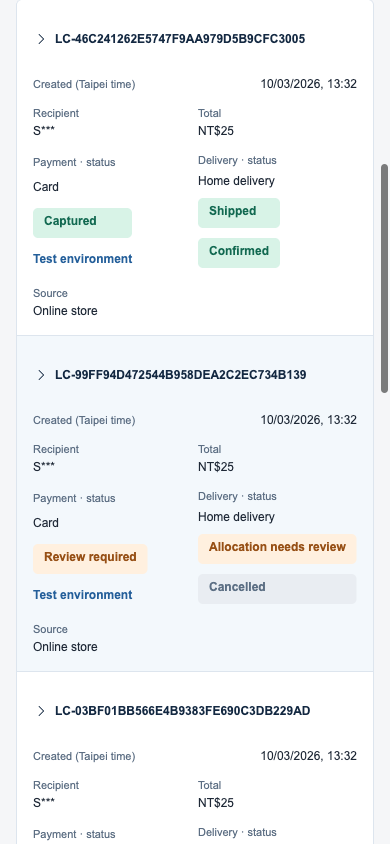
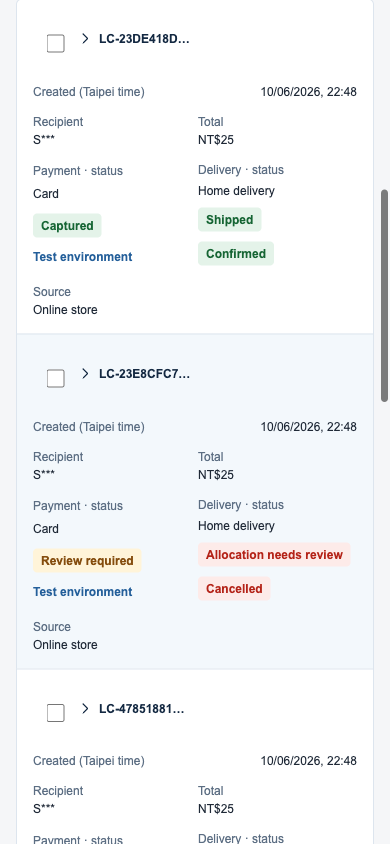
fix(orders): keep mobile rows visible and page selection clickable

diff --git a/apps/admin/components/MerchantOrders.tsx b/apps/admin/components/MerchantOrders.tsx
@@ -617,17 +617,17 @@ export function MerchantOrders({
                 {v2.tabs[bucket]} <span data-testid={`orders-count-${bucket}`}>{current.page!.counts[bucket]}</span>
               </button>)}
             </TabStrip>
-            <p className="orders-v2-total" data-testid="orders-total">{v2.total}: {current.page.total}</p>
+            <div className="orders-list-tools"><p className="orders-v2-total" data-testid="orders-total">{v2.total}: {current.page.total}</p><label className="pick-row-check orders-page-selection"><input type="checkbox" aria-label={pc.page}
+                      checked={current.page.items.length>0 && current.page.items.every(row=>Object.hasOwn(bulkRows,row.order_id))}
+                      ref={node=>{if(node)node.indeterminate=current.page!.items.some(row=>Object.hasOwn(bulkRows,row.order_id))&&!current.page!.items.every(row=>Object.hasOwn(bulkRows,row.order_id));}}
+                      disabled={!current.page.items.length || (new Set([...selectedIDs,...current.page.items.map(r=>r.order_id)]).size>500 && !current.page.items.every(row=>Object.hasOwn(bulkRows,row.order_id)))}
+                      onChange={e=>checkRows(current.page!.items,e.target.checked)}/><span>{pc.page}</span></label></div>
             {filters.bucket === "completed" && <p className="orders-v2-note">{v2.completedNote}</p>}
             <div className="orders-table-scroll">
               <table className="orders-table" data-testid="orders-table">
                 <thead>
                   <tr>
-                    <th><label className="pick-row-check"><input type="checkbox" aria-label={pc.page}
-                      checked={current.page.items.length>0 && current.page.items.every(row=>Object.hasOwn(bulkRows,row.order_id))}
-                      ref={node=>{if(node)node.indeterminate=current.page!.items.some(row=>Object.hasOwn(bulkRows,row.order_id))&&!current.page!.items.every(row=>Object.hasOwn(bulkRows,row.order_id));}}
-                      disabled={!current.page.items.length || (new Set([...selectedIDs,...current.page.items.map(r=>r.order_id)]).size>500 && !current.page.items.every(row=>Object.hasOwn(bulkRows,row.order_id)))}
-                      onChange={e=>checkRows(current.page!.items,e.target.checked)}/></label>{c.order}</th>
+                    <th>{c.order}</th>
                     <th>{c.created}</th>
                     <th>{v2.recipient}</th>
                     <th>{c.total}</th>

diff --git a/apps/admin/components/PickList.tsx b/apps/admin/components/PickList.tsx
@@ -8,6 +8,7 @@ import type { Locale } from "@live-commerce/i18n";
 import { readPickList, PickError } from "@/lib/picklist-client";
 import {
   pickUUID,
+  shouldOpenPickTools,
   type PickDocument,
   type PickLine,
   type PickSelection,
@@ -45,6 +46,9 @@ export function PickList({
 }) {
   const c = picklistCopy[locale];
   const scopeID = useId();
+  const [toolsOpen, setToolsOpen] = useState(() =>
+    shouldOpenPickTools(ids.length, sessionID),
+  );
   const [scope, setScope] = useState("chosen"),
     [busy, setBusy] = useState(false),
     [error, setError] = useState(""),
@@ -69,6 +73,9 @@ export function PickList({
   useEffect(() => {
     if (document) dialog.current?.showModal();
   }, [document]);
+  useEffect(() => {
+    setToolsOpen(shouldOpenPickTools(ids.length, sessionID));
+  }, [ids.length, sessionID]);
   async function preview() {
     if (!selection || flight.current) return;
     flight.current = true;
@@ -92,17 +99,19 @@ export function PickList({
     }
   }
   return (
-    <section
+    <details
       className="pick-toolbar"
       aria-label={c.pick}
       data-testid="pick-toolbar"
       hidden={disabled}
+      open={toolsOpen}
+      onToggle={(event) => setToolsOpen(event.currentTarget.open)}
     >
+      <summary className="pick-tools-summary">
+        {c.tools} · {c.selected}:{" "}
+        <strong data-testid="pick-count">{ids.length}</strong> / 500
+      </summary>
       <div className="pick-controls">
-        <p>
-          {c.selected}: <strong data-testid="pick-count">{ids.length}</strong> /
-          500
-        </p>
         <button type="button" disabled={!ids.length} onClick={onClear}>
           {c.clear}
         </button>
@@ -199,7 +208,7 @@ export function PickList({
           </div>,
           globalThis.document.body,
         )}
-    </section>
+    </details>
   );
 }
 function LineTable({ locale, rows }: { locale: Locale; rows: PickLine[] }) {

diff --git a/tests/admin/orders-ui.spec.ts b/tests/admin/orders-ui.spec.ts
@@ -6,6 +6,7 @@ import { mkdir, writeFile } from "node:fs/promises";
 import { resolve } from "node:path";
 import * as http from "node:http";
 import { nativePage } from "./fixtures/native-device";
+import {picklistCopy} from '../../apps/admin/lib/picklist-copy';
 
 const required = (name: string) => {
   const value = process.env[name];
@@ -864,6 +865,10 @@ test("MOU07 v2 private search, SQL queues, filters and three-language ledger", a
         const row = await page.locator('[data-testid^="order-expand-"]').first().boundingBox();
         expect(row).not.toBeNull();
         expect(row!.y).toBeLessThan(height); // The first order, not only a filter form, is in the initial viewport.
+        const pageSelect=page.getByRole('checkbox',{name:picklistCopy[locale as keyof typeof picklistCopy].page,exact:true});
+        await expect(pageSelect,'page selection remains visible outside the clipped mobile table header').toBeVisible();
+        await pageSelect.check(); await expect(pageSelect).toBeChecked();
+        await pageSelect.uncheck(); await expect(pageSelect).not.toBeChecked();
         clicks.push({control:`mobile secondary filters ${locale}`, result:`native toggle, select, apply, reopen persisted value, reset; first order y=${row!.y} < ${height}`});
       }
       await page.getByTestId("orders-table").scrollIntoViewIfNeeded();

diff --git a/apps/admin/lib/picklist-copy.ts b/apps/admin/lib/picklist-copy.ts
@@ -10,6 +10,7 @@ const en = {
   select: "Select order",
   page: "Select this page",
   selected: "Selected orders",
+  tools: "Pick and export",
   clear: "Clear selection",
   limit: "Select up to 500 orders. Clear some before selecting another page.",
   pick: "Pick list",
@@ -70,6 +71,7 @@ const tw: Copy = {
   select: "選取訂單",
   page: "選取本頁",
   selected: "已選訂單",
+  tools: "備貨與匯出",
   clear: "清除選取",
   limit: "最多選取 500 筆訂單，請先取消部分選取再選下一頁。",
   pick: "撿貨單",
@@ -124,6 +126,7 @@ const cn: Copy = {
   select: "选择订单",
   page: "选择本页",
   selected: "已选订单",
+  tools: "备货与导出",
   clear: "清除选择",
   limit: "最多选择 500 笔订单，请先取消部分选择再选下一页。",
   pick: "拣货单",

diff --git a/apps/admin/components/picklist.css b/apps/admin/components/picklist.css
@@ -3,8 +3,32 @@
  * Used by: PickList, CarrierExport, CvsBatch and row-selection controls. */
 .pick-toolbar {
   border-block: 1px solid var(--line);
-  padding-block: 12px;
+  padding-block: 0;
+  margin-block: 6px;
+}
+.pick-tools-summary {
+  cursor: pointer;
+  min-height: 44px;
+  padding: 10px 0;
+  box-sizing: border-box;
+  overflow-wrap: anywhere;
+}
+.pick-toolbar[open] > .pick-controls {
+  padding-block: 8px;
+}
+.orders-list-tools {
+  display: flex;
+  align-items: center;
+  justify-content: space-between;
+  flex-wrap: wrap;
+  gap: 8px 12px;
   margin-block: 12px;
+}
+.orders-list-tools .orders-v2-total {
+  margin: 0;
+}
+.orders-page-selection {
+  gap: 8px;
 }
 .pick-controls {
   display: flex;

diff --git a/tests/admin/picklist-model.test.ts b/tests/admin/picklist-model.test.ts
@@ -11,9 +11,16 @@ import {
   parseCvsBatch,
   validPickRequest,
   carrierFilename,
+  shouldOpenPickTools,
 } from "../../apps/admin/lib/picklist-model.ts";
 const id = (n: number) =>
   `11111111-1111-4111-8111-${String(n).padStart(12, "0")}`;
+test("batch controls stay compact until an order selection or live-session scope exists", () => {
+  assert.equal(shouldOpenPickTools(0, ""), false);
+  assert.equal(shouldOpenPickTools(1, ""), true);
+  assert.equal(shouldOpenPickTools(0, id(1)), true);
+  assert.equal(shouldOpenPickTools(0, "invalid"), false);
+});
 const line = {
   sku_id: id(9),
   sku_code: "SKU-9",

diff --git a/apps/admin/lib/picklist-model.ts b/apps/admin/lib/picklist-model.ts
@@ -3,6 +3,10 @@
 // Used by: PickList, CVS/CSV clients, exact BFF routes and unit gates.
 export const pickUUID =
   /^[0-9a-f]{8}-[0-9a-f]{4}-[0-9a-f]{4}-[0-9a-f]{4}-[0-9a-f]{12}$/;
+/** Expand batch work only for a real selection/scope; initial mobile order rows keep their space. */
+export function shouldOpenPickTools(count: number, sessionID: string): boolean {
+  return count > 0 || pickUUID.test(sessionID);
+}
 export const carrierTemplates = [
   "black_cat",
   "hsinchu",

diff --git a/tests/foundation/browser_merchant_orders_ui_test.go b/tests/foundation/browser_merchant_orders_ui_test.go
@@ -2,6 +2,10 @@
 
 package foundation_test
 
+// Purpose: real merchant order browser fixtures and read-only authority proof; focused MOU07 is a separate local subset.
+// Depends on: isolated PG, production admin Next, signed MOCK OIDC and orders-ui.spec.ts.
+// Used by: --browser-merchant-orders-ui; focused test-focused invocations do not certify full MOU/native acceptance.
+
 import (
 	"context"
 	"encoding/json"
@@ -32,7 +36,12 @@ import (
 
 // MOU01-06: only the OIDC issuer is mocked in the happy path. Order, payment,
 // expiry and projection reads are all real business APIs over an owned PG18.
-func TestBrowserMerchantOrdersUIRealChain(t *testing.T) {
+func TestBrowserMerchantOrdersUIRealChain(t *testing.T) { merchantOrdersUIBrowser(t, false) }
+
+// TestBrowserMerchantOrdersUIFocused runs only MOU07 for a local geometry/control regression; full native proof remains in the full gate.
+func TestBrowserMerchantOrdersUIFocused(t *testing.T) { merchantOrdersUIBrowser(t, true) }
+
+func merchantOrdersUIBrowser(t *testing.T, focused bool) {
 	if os.Getenv("LC_BROWSER_MERCHANT_ORDERS_UI_ACCEPTANCE") != "1" || os.Getenv("LC_TEST_DATABASE_ALLOWED") != "1" {
 		t.Fatal("use scripts/dev/test-local.sh --browser-merchant-orders-ui")
 	}
@@ -327,7 +336,11 @@ func TestBrowserMerchantOrdersUIRealChain(t *testing.T) {
 	}
 	fixtures, _ := json.Marshal(ids)
 	playwrightLog := browserLog(t, filepath.Join(evidence, "playwright.log"))
-	browser := exec.CommandContext(ctx, "pnpm", "exec", "playwright", "test", "tests/admin/orders-ui.spec.ts", "--reporter=list", "--output="+filepath.Join(evidence, "results"))
+	args := []string{"exec", "playwright", "test", "tests/admin/orders-ui.spec.ts", "--reporter=list", "--output=" + filepath.Join(evidence, "results")}
+	if focused {
+		args = append(args, "--grep", "MOU07")
+	}
+	browser := exec.CommandContext(ctx, "pnpm", args...)
 	browser.Dir = root
 	browser.Env = browserEnvironment(map[string]string{"LC_BROWSER_SUITE": "merchant-orders-ui", "LC_BROWSER_PUBLIC_ORIGIN": origin, "LC_BROWSER_API_ORIGIN": api.URL, "LC_BROWSER_ORDER_STORE": q.f.storeA1, "LC_BROWSER_ORDER_IDS": string(fixtures), "LC_BROWSER_FROZEN_SKU_CODE": q.stock.skus[0].Code, "LC_BROWSER_FOREIGN_STORE": foreignStore, "LC_BROWSER_FOREIGN_ORDER_ID": foreignOrder, "LC_BROWSER_UNLISTED_STORE": q.f.storeB, "LC_BROWSER_SECOND_TOKEN": secondToken, "LC_BROWSER_NO_ORDERS_TOKEN": noOrdersToken, "LC_BROWSER_EXPIRED_TOKEN": expiredToken, "LC_BROWSER_REVOKED_TOKEN": revokedToken, "LC_BROWSER_EVIDENCE": evidence})
 	browser.Stdout, browser.Stderr = playwrightLog, playwrightLog
@@ -345,6 +358,10 @@ func TestBrowserMerchantOrdersUIRealChain(t *testing.T) {
 	var afterHash string
 	if err = q.f.owner.QueryRow(ctx, `SELECT md5(o::text) FROM checkout.orders o WHERE id=$1`, q.hold.OrderID).Scan(&afterHash); err != nil || afterHash != originalHash {
 		t.Fatalf("order changed after reads: match=%t err=%v", afterHash == originalHash, err)
+	}
+	if focused {
+		t.Logf("FOCUSED MOU07 geometry/controls and PG read-only facts passed; other MOU cases/native proof NOT_RUN; evidence=%s", evidence)
+		return
 	}
 	var native struct {
 		Events []struct {

diff --git a/output/w3-u1b-picklist-ui/DELIVERY.md b/output/w3-u1b-picklist-ui/DELIVERY.md
@@ -1,0 +1,43 @@
+<!-- Purpose: W3-U1b current CI repair handoff and evidence limits.
+Depends on: r3/integration71235, CI37470015577, focused MOU07 and main evidence logs.
+Used by: integrator re-review and GitHub rerun; no production acceptance. -->
+# W3-U1b CI repair delivery
+
+- Branch `unit/w3-u1b-picklist-ui`, trunk71235fc4 merged before checks. Final commit: containing this file (actual SHA in handoff/commit-receipt).
+- Supersedes author4a228b24/int f3f97fcf CI37470015577. Base `71235fc40db20189583c08057f8e21fd8dcbd10e`. Parent Codex GPT-6, independent read-only review by existing explorer; no backend runtime/schema/dependency edits.
[1 lines of base64/hex data omitted]
+
+MOU07's first row was y982>=844 because the always-expanded pick/export/CVS controls consumed the phone viewport. Batch controls now use a compact native disclosure, expand when a selection or valid live-session scope exists, and preserve scope/cap500/print/command behavior. The selected count remains visible while closed.
+
+Click-sweep r00208 placed page selection inside a table header clipped to1x1px on mobile. The same checked/indeterminate/cap500/handler control now sits in a visible list-tools row outside the header. The original viewport threshold stays unchanged; MOU07 additionally checks/unchecks the visible checkbox with real clicks. Native-device merge preserves current Linux --no-sandbox plus owned-child FD diagnostics/cleanup.
+
+## Evidence and exits
+
+All paths below are main `output/w3-u1b-picklist-ui/ci-37470015577/`.
+
+| Check | Exit | Evidence |
+|---|---:|---|
+| CI old UI red |1| run37470015577 artifacts: MOU07 y982, gate-4/ui-click-sweep/ledger rowr00208/screenshot; original tests intact |
+| focused Node red→green |1→0| `node-red.log`→`node-final.log`,12PASS/0FAIL |
+| admin TypeScript |0| `types-first.log` |
+| strict MOU/native spec TypeScript |0| `browser-types.log` |
+| admin production build |0| `build-green.log`; first setup lacked synthetic company email (`build-red.log`,1), configured build0 |
+| `LC_TEST_LOCK_WAIT=600 LC_BROWSER_MERCHANT_ORDERS_UI_ACCEPTANCE=1 LC_FOCUSED_TAGS=browser LC_FOCUSED_TIMEOUT=700s bash scripts/dev/test-focused.sh '^TestBrowserMerchantOrdersUIFocused$'` |0| `focused-green.log`; actual Playwright MOU07 passed and PG readonly facts passed |
+| `bash scripts/dev/check-gates.sh` |0| `gates.log`,72modes/header ratchet |
+| `git diff --check` |0| clean |
+
+Local focused MOU07 covers3locales×1586/390, unchanged first-row threshold and added real page-checkbox clicks. Recorded first-row y: zh-TW752.492, zh-CN752.492, en749.492 (<844). Durable full runtime tree and orders-v2 screenshots/ledger under `local-focused/`. Local pre-fix red request never ran (sharedPG queue; only verified ownPID18823 stopped, exit143/NOT_RUN); existing CI red supplies the reproduced defect evidence.
+
+The focused Go entry is separate. Original `TestBrowserMerchantOrdersUIRealChain` still runs every spec/assertion and native proof. Only the focused entry selectsMOU07, retains PG read-only checks, and explicitly reports unrelated MOU/native cases NOT_RUN. No full-gate thresholds, assertion or fixture weakened. Independent source review found no proven regression/gate weakening. E3 here = focused real browser + realPG with MOCK IdP; not complete W3 acceptance.
+
+## CI gates / NOT_RUN
+
+Integrator pushes/runs:
+
+- `bash scripts/dev/test-local.sh --browser-merchant-orders-ui`
+- `bash scripts/dev/test-local.sh --browser-picklist`
+- `bash scripts/dev/test-local.sh --browser-cvs`
+- `bash scripts/dev/test-local.sh --browser-click-sweep`
+- `bash scripts/dev/test-local.sh --browser-visual-lint`
+
+All full modes/native proof/complete click sweep/visual lint are NOT_RUN locally this repair turn. LC-U1 findings are outside this unit and were not edited. No release merge/push/provider action. Earlier feature delivery and historical evidence remain in main output; current CI repair supersedes prior author SHA.
